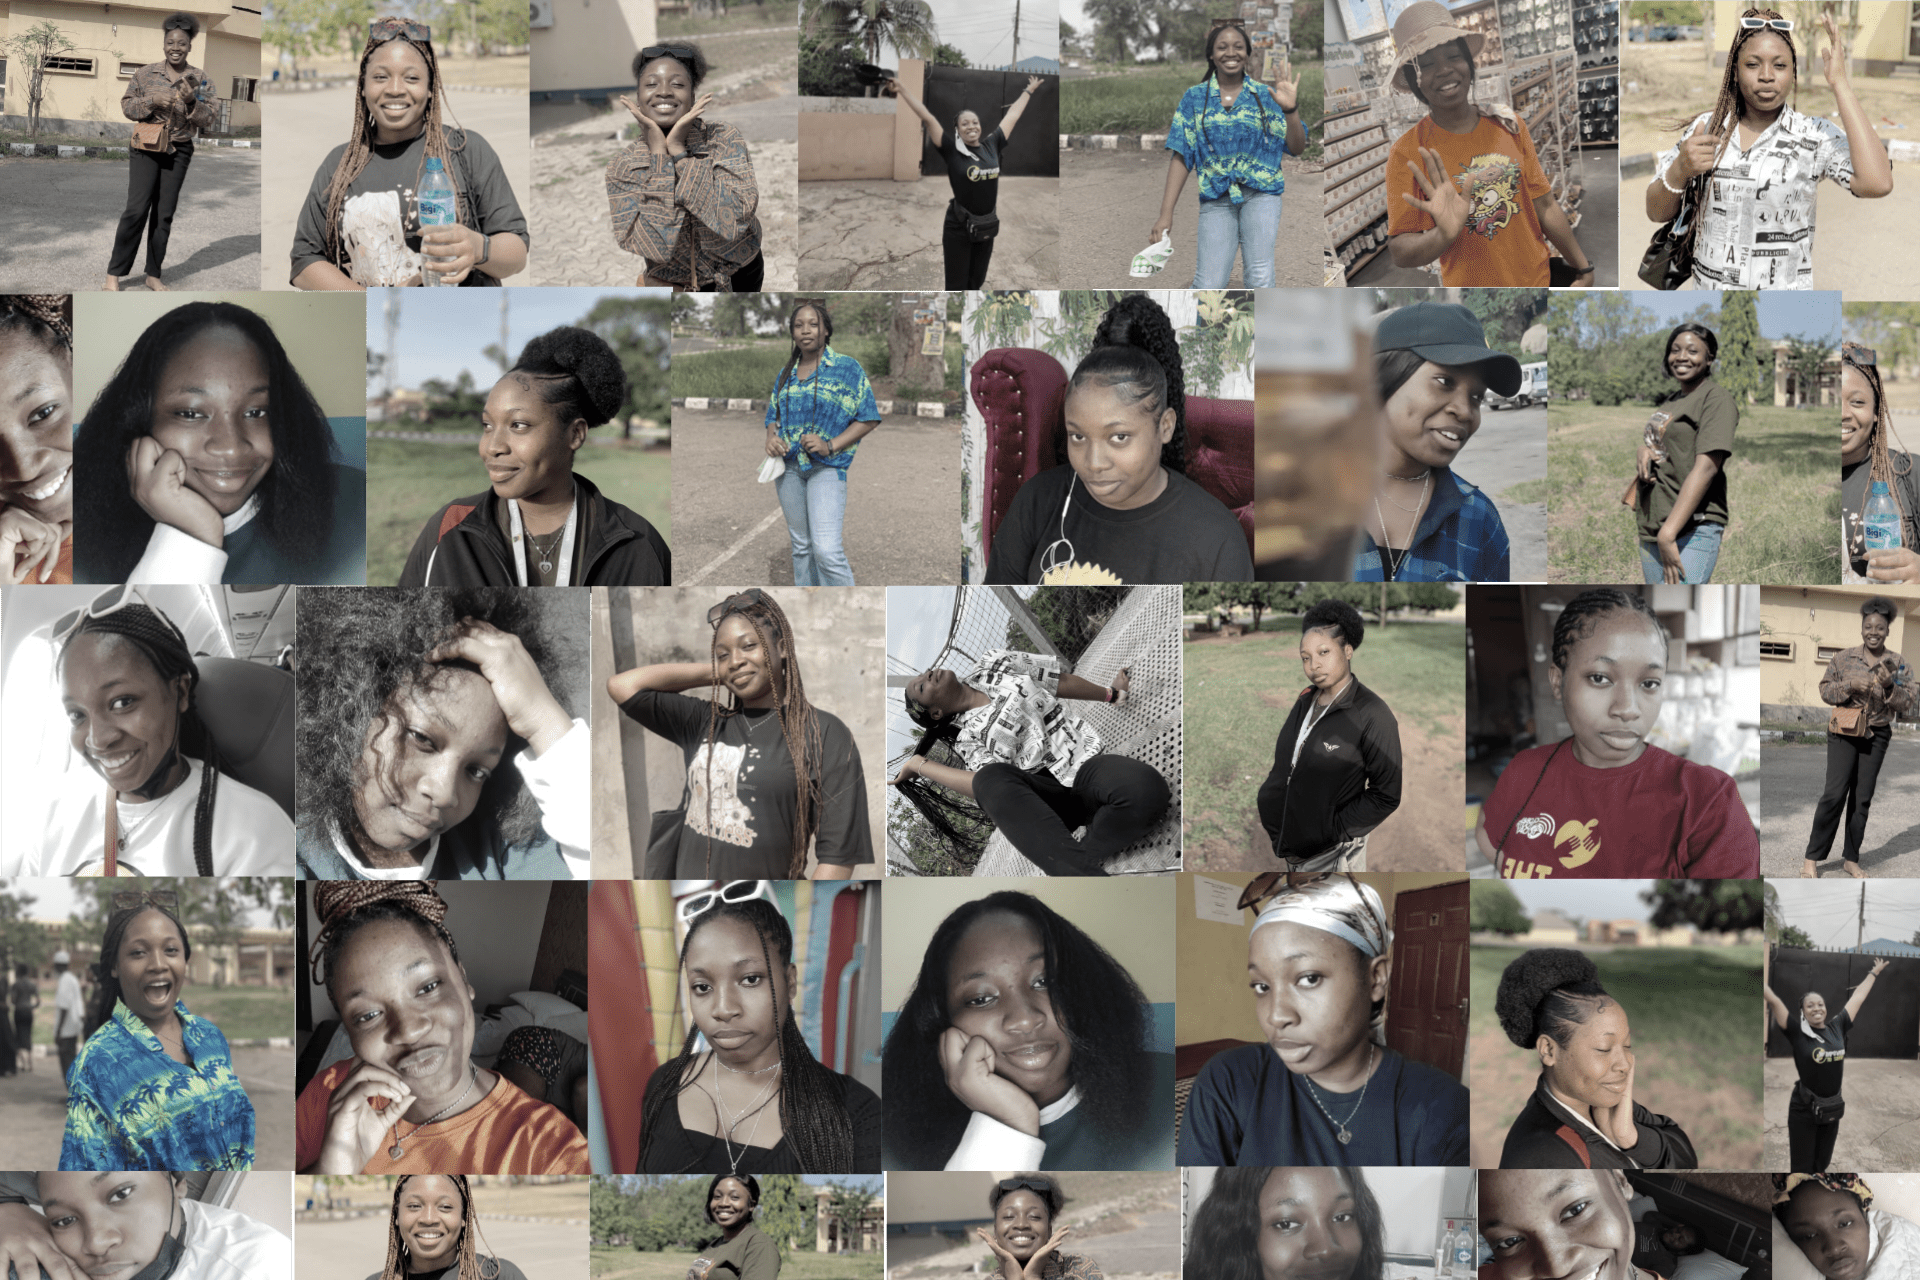
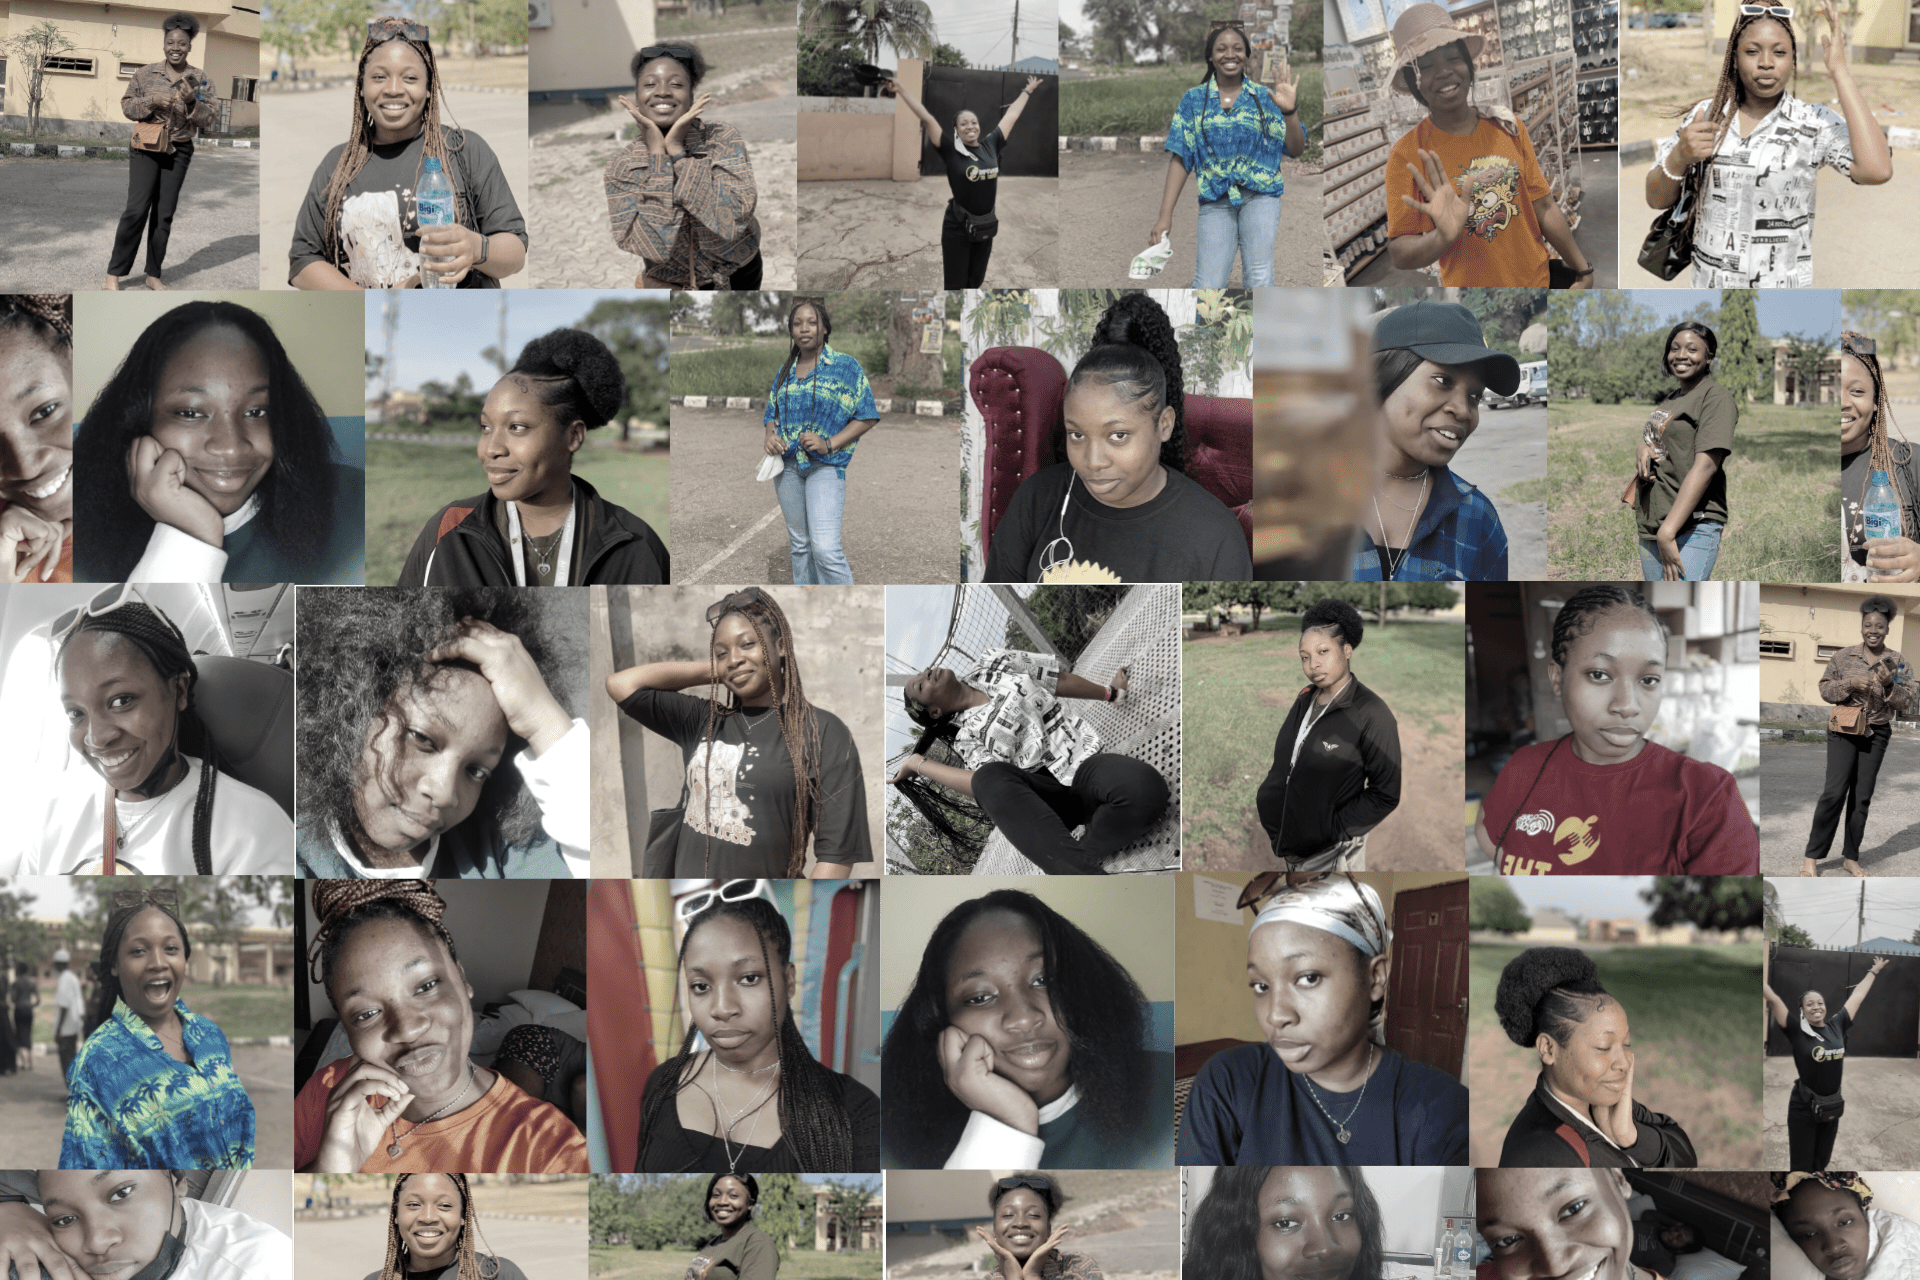
Implements desktop story widget UI, changes background images

diff --git a/lib/widgets/story_widget.dart b/lib/widgets/story_widget.dart
@@ -1,6 +1,7 @@
 import 'package:cached_network_image/cached_network_image.dart';
 import 'package:flutter/material.dart';
 import 'package:ugo/models/story.dart';
+import 'package:ugo/widgets/responsive_builder.dart';
 
 class StoryWidget extends StatelessWidget {
   final Story story;
@@ -37,89 +38,157 @@ class StoryWidget extends StatelessWidget {
 
     final size = MediaQuery.of(context).size;
 
-    return SizedBox(
-      height: size.height,
-      width: size.width,
-      child: Column(
-        crossAxisAlignment: CrossAxisAlignment.start,
-        children: [
-          CachedNetworkImage(
-            imageUrl: story.image!,
-            fit: BoxFit.cover,
-            imageBuilder: (context, imageProvider) {
-              return Container(
-                height: size.height * .4,
-                width: size.width,
-                decoration: BoxDecoration(
-                  image: DecorationImage(
-                    image: imageProvider,
-                    fit: BoxFit.cover,
-                    //sepia filter
-                    colorFilter: const ColorFilter.matrix(
-                      <double>[
-                        0.393,
-                        0.769,
-                        0.189,
-                        0,
-                        0,
-                        0.349,
-                        0.686,
-                        0.168,
-                        0,
-                        0,
-                        0.272,
-                        0.534,
-                        0.131,
-                        0,
-                        0,
-                        0,
-                        0,
-                        0,
-                        1,
-                        0,
-                      ],
+    return ResponsiveWidgetBuilder(
+      desktop: SizedBox(
+        height: size.height,
+        width: size.width,
+        child: Stack(
+          children: [
+            CachedNetworkImage(
+              imageUrl: story.image!,
+              fit: BoxFit.cover,
+              imageBuilder: (context, imageProvider) {
+                return Container(
+                  height: size.height,
+                  width: size.width * .6,
+                  decoration: BoxDecoration(
+                    image: DecorationImage(
+                      image: imageProvider,
+                      fit: BoxFit.cover,
+                      colorFilter: filter,
                     ),
                   ),
-                ),
-              );
-            },
-            progressIndicatorBuilder: (context, child, loadingProgress) =>
-                Container(
-              height: size.height * .4,
-              width: size.width,
-              color: Colors.grey.shade300,
+                );
+              },
+              progressIndicatorBuilder: (context, child, loadingProgress) =>
+                  Container(
+                height: size.height,
+                width: size.width * .6,
+                color: Colors.grey.shade300,
+              ),
             ),
-          ),
-          const SizedBox(height: 10),
-          Expanded(
-            child: ListView(
-              padding: const EdgeInsets.all(16),
-              children: [
-                Text.rich(
-                  TextSpan(
-                    children: [
-                      for (var line in story.lines)
-                        TextSpan(
-                          text: line.text,
-                          style: TextStyle(
-                            fontFamily: line.fontFamily,
-                            fontSize: line.fontSize,
-                            fontStyle: line.fontStyle,
-                            fontWeight: line.fontWeight,
-                            color: line.color,
-                            letterSpacing: line.letterSpacing,
-                            height: line.height,
-                          ),
-                        ),
-                    ],
+            Positioned(
+              right: 0,
+              child: SizedBox(
+                height: size.height,
+                width: size.width * .4,
+                child: ListView(
+                  padding: const EdgeInsets.all(48),
+                  children: [
+                    const SizedBox(height: 144),
+                    Text.rich(
+                      TextSpan(
+                        children: [
+                          for (var line in story.lines)
+                            TextSpan(
+                              text: line.text,
+                              style: TextStyle(
+                                fontFamily: line.fontFamily,
+                                fontSize: line.fontSize,
+                                fontStyle: line.fontStyle,
+                                fontWeight: line.fontWeight,
+                                color: line.color,
+                                letterSpacing: line.letterSpacing,
+                                height: line.height,
+                              ),
+                            ),
+                        ],
+                      ),
+                      softWrap: true,
+                    ),
+                  ],
+                ),
+              ),
+            ),
+          ],
+        ),
+      ),
+      mobile: SizedBox(
+        height: size.height,
+        width: size.width,
+        child: Column(
+          crossAxisAlignment: CrossAxisAlignment.start,
+          children: [
+            CachedNetworkImage(
+              imageUrl: story.image!,
+              fit: BoxFit.cover,
+              imageBuilder: (context, imageProvider) {
+                return Container(
+                  height: size.height * .4,
+                  width: size.width,
+                  decoration: BoxDecoration(
+                    image: DecorationImage(
+                      image: imageProvider,
+                      fit: BoxFit.cover,
+                      colorFilter: filter,
+                    ),
                   ),
-                  softWrap: true,
-                ),
-              ],
+                );
+              },
+              progressIndicatorBuilder: (context, child, loadingProgress) =>
+                  Container(
+                height: size.height * .4,
+                width: size.width,
+                color: Colors.grey.shade300,
+              ),
             ),
-          ),
-        ],
+            const SizedBox(height: 10),
+            Expanded(
+              child: ListView(
+                padding: const EdgeInsets.all(16),
+                children: [
+                  Text.rich(
+                    TextSpan(
+                      children: [
+                        for (var line in story.lines)
+                          TextSpan(
+                            text: line.text,
+                            style: TextStyle(
+                              fontFamily: line.fontFamily,
+                              fontSize: line.fontSize,
+                              fontStyle: line.fontStyle,
+                              fontWeight: line.fontWeight,
+                              color: line.color,
+                              letterSpacing: line.letterSpacing,
+                              height: line.height,
+                            ),
+                          ),
+                      ],
+                    ),
+                    softWrap: true,
+                  ),
+                ],
+              ),
+            ),
+          ],
+        ),
       ),
     );
   }
 }
+
+//sepia filter
+const filter = ColorFilter.matrix(
+  <double>[
+    0.393,
+    0.769,
+    0.189,
+    0,
+    0,
+    0.349,
+    0.686,
+    0.168,
+    0,
+    0,
+    0.272,
+    0.534,
+    0.131,
+    0,
+    0,
+    0,
+    0,
+    0,
+    1,
+    0,
+  ],
+);

diff --git a/web/index.html b/web/index.html
@@ -71,7 +71,7 @@
       });
     });
   </script>
-  <script src="main.dart.js?version=1.0.0&build_number=21" type="application/javascript"></script>
+  <script src="main.dart.js?version=1.0.0&build_number=23" type="application/javascript"></script>
   <img src="assets/tossing.gif" />
 </body>
 
